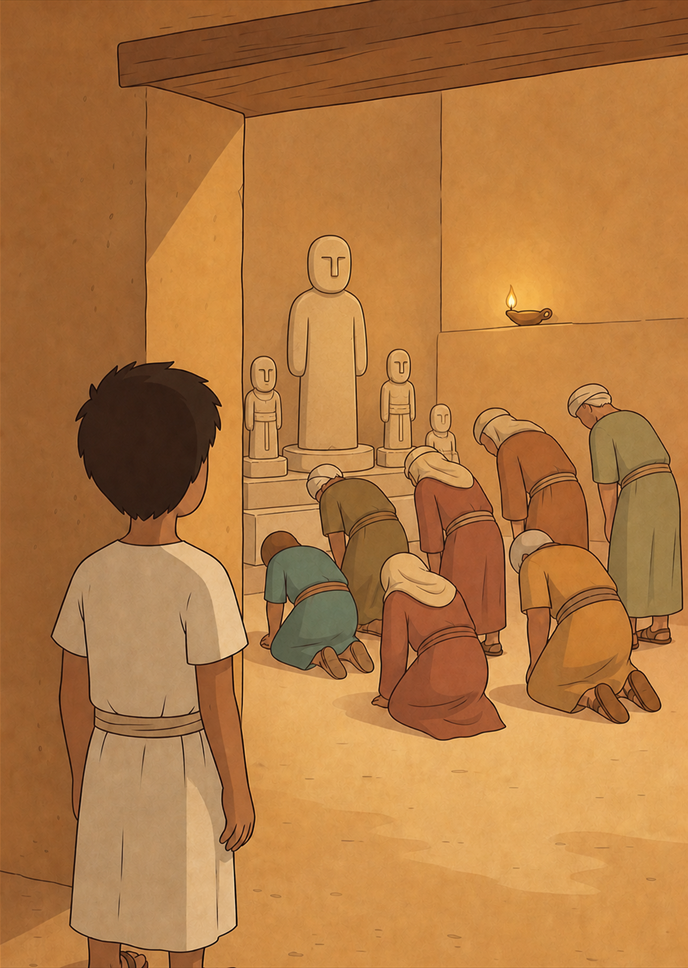
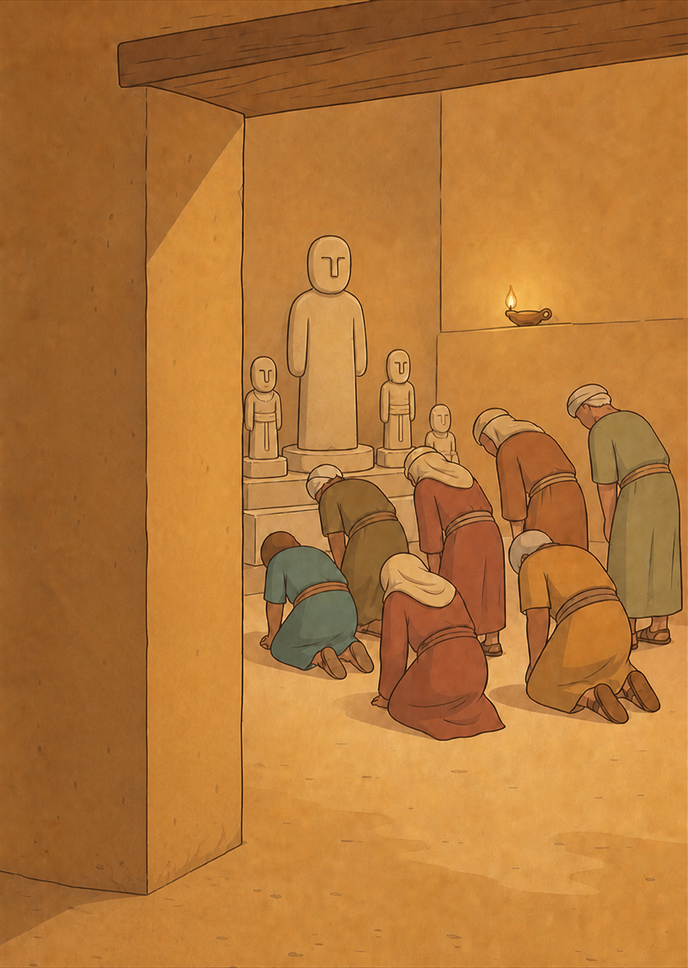
Switch to no-Prophet POV: Ibrahim is not depicted at all
Supersedes the rear-view standard from the previous commit. New decision:
no figure for a prophet in any form, including from behind. Where Ibrahim
takes part in a scene, the picture is shot as what he sees — the camera
stands in for him, not a body.

Verified each replaced file directly rather than trusting the source
folder's own QA.md: pages 5 and 6 are the idol-house interior with no
human figure at all (the doorway/idol shots are POV, meaning Ibrahim is
the implied viewer, not something drawn in frame); page 7 is the fly and
mouse scene, again with no figure. Pages 3 and 4 are byte-identical to
what was already live — neither ever contained Ibrahim.

Copy updated to match: "Shown from behind" -> "Never drawn", and the
gallery caption "Watching them bow" (which implied a visible watching
figure) -> "What Ibrahim saw".

Source: generated/no-prophet-pov-pages-03-13-v1 in the book repo. Pages
8-13 from that set are not yet used here — the landing page only needs
three sample images — but are available once the book's own art is
regenerated to match.

diff --git a/app/page.tsx b/app/page.tsx
@@ -27,15 +27,16 @@ const THREAD_ROOT = "س ج د";
  * A SAMPLE — three pages, not a page browser. This is a landing page; the
  * rest of the book stays in print.
  *
- * ONLY the v2 redraw (pages 3-7) may appear here. Ibrahim is shown from
- * behind in every one of them — never a face, and never a blank face
- * either, which the earlier art used and which is no longer acceptable.
- * Every page above 7 is still the old artwork. Check a page before adding
- * it; do not assume.
+ * ONLY the no-Prophet POV set (pages 3-7) may appear here. Ibrahim is not
+ * drawn at all — not featured, not blank-faced, not shown from behind
+ * either. Scenes he is part of are shot as what he sees, so the camera
+ * stands in for him rather than any figure doing so. Every page above 7 is
+ * still older artwork under an earlier, now-superseded standard. Check a
+ * page before adding it; do not assume.
  */
 const SAMPLE_ART = [
   { page: 4, file: "page-04.png", caption: "The house of idols" },
-  { page: 5, file: "page-05.png", caption: "Watching them bow" },
+  { page: 5, file: "page-05.png", caption: "What Ibrahim saw" },
   { page: 7, file: "page-07.png", caption: "A fly and a mouse" },
 ];
 
@@ -387,8 +388,9 @@ export default function Home() {
           >
             {storyPages} illustrated pages, one scene each. The hard parts of
             the story are told plainly in the text and left undrawn — restraint
-            belongs in the picture, never in the telling. Ibrahim is always
-            drawn from behind, so his face is never shown. Three of them:
+            belongs in the picture, never in the telling. Ibrahim himself is
+            never drawn; where he takes part in a scene, it is shown as what
+            he sees. Three of them:
           </p>
         </div>
 
@@ -533,7 +535,7 @@ export default function Home() {
             {[
               ["Fully vowelled", "Every word carries its tashkeel, on every page — the marks are the lesson, not a decoration."],
               ["Nothing cut", "The story follows al-Nadwi's original. Difficult episodes are told plainly rather than removed."],
-              ["Shown from behind", "A prophet's face is never drawn — not featured, and not left blank either. Ibrahim is shown from behind, and the scene is composed that way from the start rather than edited to fit."],
+              ["Never drawn", "Ibrahim is not depicted at all — not featured, not blank-faced, not shown from behind. Where he is part of a scene, the picture shows what he sees rather than standing in a figure for him."],
             ].map(([title, body]) => (
               <li key={title} className="border-ink/10 bg-surface/60 rounded-2xl border px-5 py-4">
                 <p className="text-ink font-semibold" style={{ fontSize: "16px", lineHeight: 1.5 }}>
